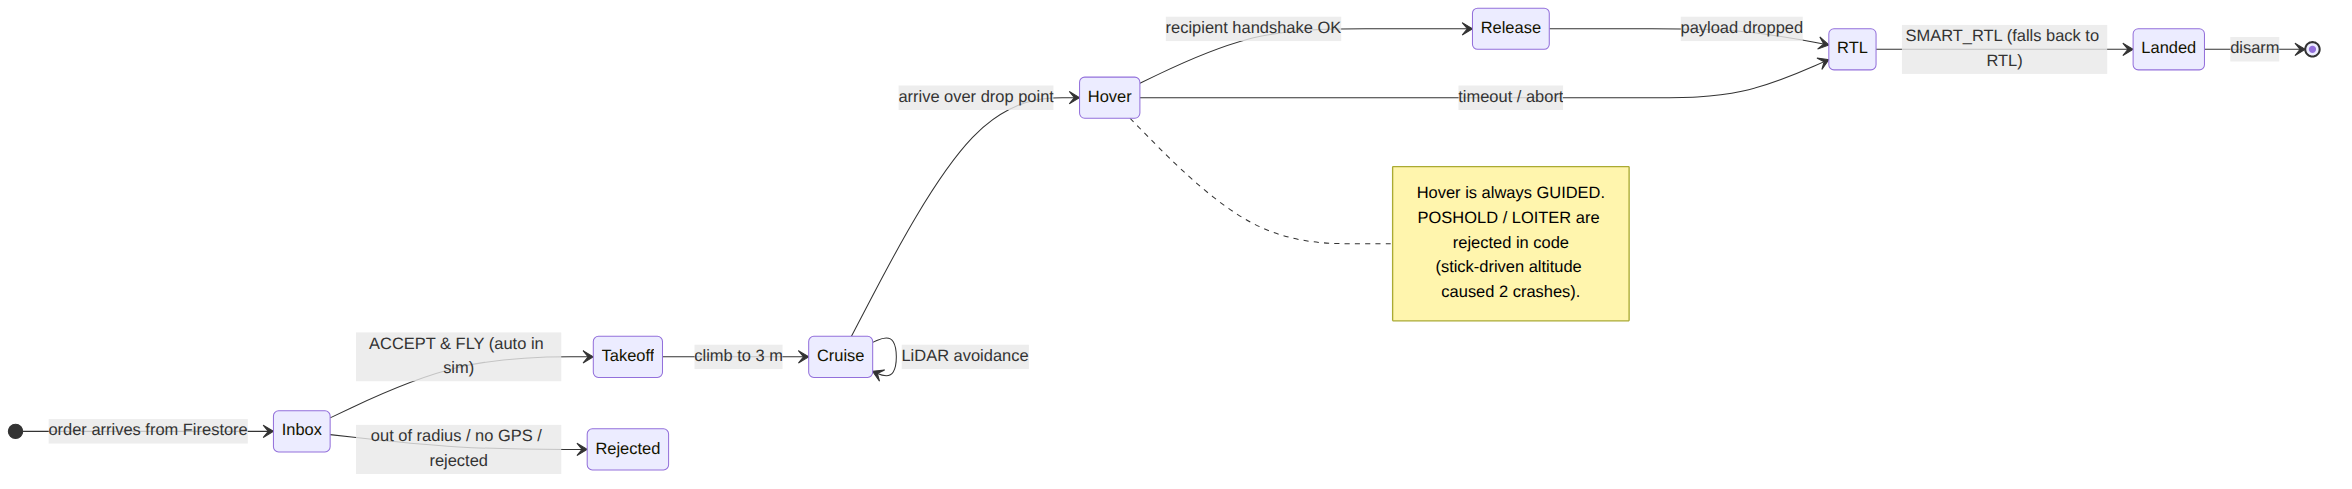
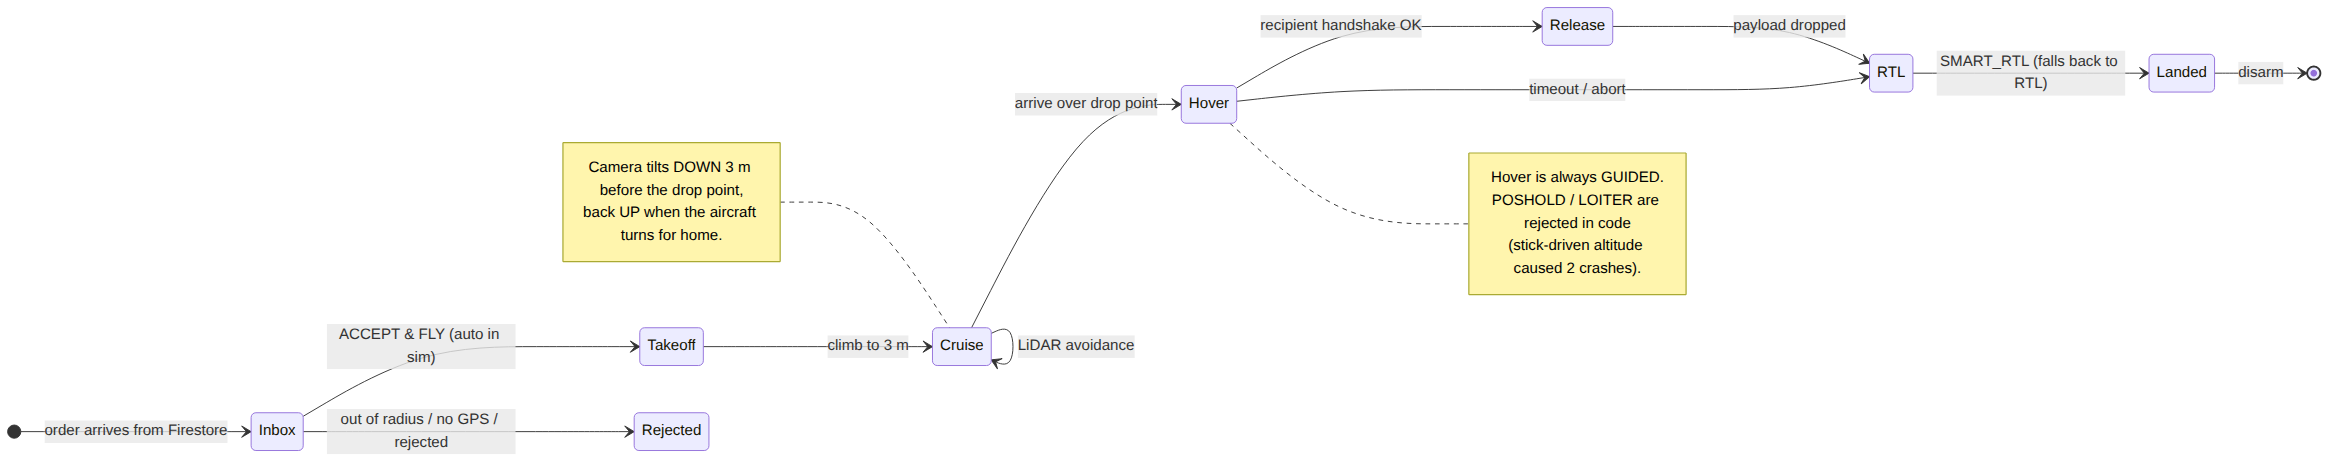
README: correct the hardware to what is actually fitted
- Pi Cam v3 is the only camera; the USB webcam (C270) was removed.
- Payload servo is the MG995 on AUX4 (SERVO12), not AUX1.
- Add the MG90S camera-tilt servo on AUX6 (SERVO14) to the features,
  hardware table, architecture and data-flow diagrams, and the
  delivery flight profile (tilts down before the drop, up for home).
- Person lock runs visdronebest.hef; terrain segmentation is only
  used by the optional novelty layer.
- Drop links to CLAUDE.md, which was removed from the repo.
- Re-export the diagram PNGs.

Claude-Session: https://claude.ai/code/session_01PoaRY7dFAs7jA3ZqKnTj8Q

diff --git a/README.md b/README.md
@@ -39,8 +39,9 @@ on-board AI, releases the parcel only after a BLE + vision handshake, and flies 
 | 🧭 | **Autonomy** | Waypoint missions, a mission state machine, a hard **3 m altitude ceiling**, a home position latched once on the ground, SMART_RTL with a fallback to RTL, and pilot-override arbitration. |
 | 🚧 | **Obstacle avoidance** | RPLIDAR C1 scans → obstacle extraction and tracking → VFH / sector / long-range avoidance on the Pi, plus `OBSTACLE_DISTANCE` streamed to the flight controller so avoidance still works when the pilot flies by hand. |
 | 📦 | **Firebase delivery** | Orders from the Flutter app (Firestore) become flown missions: climb → cruise → GUIDED hover → release → SMART_RTL → land. An operator must press **ACCEPT** before it flies. |
-| 🤖 | **On-board AI (Hailo-8)** | Terrain segmentation and person detection on the NPU, a flicker-free single-target person lock, digital stabilisation, and camera-driven landing-zone scoring. |
-| 🔐 | **Recipient handshake** | A BLE peripheral with an HMAC-signed one-time token. The payload servo (AUX1) is released only when the BLE and vision checks both agree. |
+| 🤖 | **On-board AI (Hailo-8)** | Aerial person detection on the NPU (a YOLO model trained on VisDrone), a flicker-free single-target person lock, digital stabilisation, and terrain-segmentation landing-zone scoring in the optional novelty layer. |
+| 🎯 | **Camera-tilt servo** | An MG90S on AUX6 aims the Pi camera. It tilts **down** 3 m before the drop point so the operator sees the recipient from overhead, and back **up** for the flight home. |
+| 🔐 | **Recipient handshake** | A BLE peripheral with an HMAC-signed one-time token. The MG995 payload servo (AUX4) releases only after the handshake passes. |
 | 🎥 | **Flight recorder** | Starts recording when the drone arms and keeps one clip per flight. A post-flight replay renderer adds zero-phase stabilisation and a lock HUD, encoded to H.264. |
 | 🧪 | **Simulation first** | Mock Pixhawk, LiDAR and world. The whole stack, including deliveries, runs with no hardware attached. |
 
@@ -85,9 +86,10 @@ flowchart TB
 
     subgraph HW["🔌 Hardware"]
         direction LR
-        PX["Pixhawk 2.4.8<br/>ArduPilot"] -->|"AUX1 PWM"| SERVO["MG995R<br/>payload servo"]
+        PX["Pixhawk 2.4.8<br/>ArduPilot"] -->|"AUX4"| SERVO["MG995<br/>payload release"]
+        PX -->|"AUX6"| TILT["MG90S<br/>camera tilt"]
         LI["RPLIDAR C1"]
-        CAM["Pi Cam v3 · USB cam"]
+        CAM["Pi Cam v3<br/>imx708"]
         NPU["Hailo-8 NPU"]
     end
 
@@ -100,7 +102,7 @@ flowchart TB
     classDef st fill:#ede9fe,stroke:#7c3aed,color:#4c1d95
     classDef gc fill:#dbeafe,stroke:#2563eb,color:#1e3a8a
     classDef ex fill:#ecfdf5,stroke:#059669,color:#064e3b
-    class PX,SERVO,LI,CAM,NPU hw
+    class PX,SERVO,TILT,LI,CAM,NPU hw
     class MAV,LID,FUS,OBS,PROX,NAV,DEL,NOV st
     class CAMS,HUB,UI gc
     class APP,FB,BLE ex
@@ -144,6 +146,10 @@ stateDiagram-v2
     Release --> RTL: payload dropped
     RTL --> Landed: SMART_RTL (falls back to RTL)
     Landed --> [*]: disarm
+    note left of Cruise
+        Camera tilts DOWN 3 m before the drop point,
+        back UP when the aircraft turns for home.
+    end note
     note right of Hover
         Hover is always GUIDED.
         POSHOLD / LOITER are rejected in code
@@ -282,9 +288,10 @@ scripts/start_gcs.sh real                      # → http://pi.local:8090
 |---|---|---|
 | Pixhawk 2.4.8 (ArduPilot) | `/dev/ttyACM0` | USB |
 | Slamtec RPLIDAR C1 | `/dev/ttyUSB0` | 460800 baud |
-| Pi Cam v3 (imx708) + Logitech C270 | CSI / USB | MJPEG tiles over the map |
+| Raspberry Pi Camera v3 (imx708) | CSI | the only camera; MJPEG stream over the map, mounted upside down (rotated by the ISP) |
 | Hailo-8 AI HAT+ | PCIe | the camera overlays fall back to plain video if missing |
-| MG995R payload servo | Pixhawk **AUX1** (SERVO9) | separate supply, common GND |
+| MG995 payload-release servo | Pixhawk **AUX4** (SERVO12) | separate supply, common GND · config block `payload:` |
+| MG90S camera-tilt servo | Pixhawk **AUX6** (SERVO14) | separate 5 V supply, common GND · config block `aux2_servo:` |
 
 On the Pi the GCS starts on boot as `aerix-gcs.service` (real mode, port 8090). **Only one
 process may hold the Pixhawk port**, so stop the service before running `start_gcs.sh` or any
@@ -371,7 +378,6 @@ need hardware.
 | [docs/30auglidarintegration.md](docs/30auglidarintegration.md) · [docs/31aug_status.md](docs/31aug_status.md) | LiDAR integration log and project status |
 | [parcel_delivery/README.md](parcel_delivery/README.md) | Standalone MAVSDK delivery prototype |
 | [person_detect/README.md](person_detect/README.md) | Hailo-8 person detector |
-| [CLAUDE.md](CLAUDE.md) | Detailed engineering notebook and changelog |
 
 ---
 

diff --git a/docs/FILE_STRUCTURE.md b/docs/FILE_STRUCTURE.md
@@ -85,10 +85,11 @@ shared `MessageBus`. Nodes never call each other directly. Everything goes throu
 flowchart TB
     subgraph ext["Outside world"]
         PX["Pixhawk"]
+        SRV["Servos<br/>AUX4 payload · AUX6 camera tilt"]
         LD["RPLIDAR"]
         FS[("Firestore")]
         PH["Phone (BLE)"]
-        CM["Cameras + Hailo-8"]
+        CM["Pi Cam v3 + Hailo-8"]
     end
 
     subgraph ifc["interfaces/ · sim/"]
@@ -119,6 +120,7 @@ flowchart TB
     BLEP["ble_handshake/<br/>drone_ble_peripheral.py"]
 
     PX <--> MI <--> MN
+    PX -->|"DO_SET_SERVO"| SRV
     LD --> LI --> LN
     FS --> FI --> DN
     CM --> CA
@@ -155,7 +157,6 @@ so a node that restarts can't replay an old `arm` or `takeoff`.
 | File | Purpose |
 |---|---|
 | `README.md` | Project overview |
-| `CLAUDE.md` | Detailed engineering notebook: hardware, incidents, changelog |
 | `pyproject.toml` · `setup.py` · `setup.cfg` | Packaging; installs the `drone-stack` and `drone-gcs` console scripts |
 | `requirements*.txt` | Core, hardware-only and dev dependencies |
 | `firebase_sync.py` | Firestore store-and-forward utility (top-level copy) |
@@ -164,7 +165,7 @@ so a node that restarts can't replay an old `arm` or `takeoff`.
 
 | File | Purpose |
 |---|---|
-| `default.yaml` | Every tunable with its default value (`mode: sim`) |
+| `default.yaml` | Every tunable with its default value (`mode: sim`), including the `payload:` (AUX4) and `aux2_servo:` (AUX6 camera tilt) servo blocks |
 | `sim.yaml` | Simulation profile: file order source, auto-accept |
 | `real.yaml` | Hardware profile: serial ports, battery thresholds, port 8090 |
 | `novelty/landing_zone.yaml` | Surface, slope and clutter thresholds for markerless landing |
@@ -222,8 +223,8 @@ so a node that restarts can't replay an old `arm` or `takeoff`.
 | `server.py` | FastAPI and WebSocket server |
 | `hub.py` | `GcsHub`: owns the engine, builds the 15 Hz payload, dispatches UI commands |
 | `ws_flow.py` | Flow control for each WebSocket connection |
-| `cameras.py` | Camera capture, NPU overlays, MJPEG streaming |
-| `hailo_infer.py` | Hailo-8 segmentation and detection runners |
+| `cameras.py` | Pi camera capture (the only camera), NPU overlays, MJPEG streaming |
+| `hailo_infer.py` | Hailo-8 detection and segmentation runners (used by the novelty perception adapters) |
 | `frame_filter.py` | Real-time image conditioning |
 | `stabilizer.py` | Live digital stabilisation for the Pi camera |
 | `person_lock.py` | Single-target person lock (async NPU detector + Kalman filter) |
